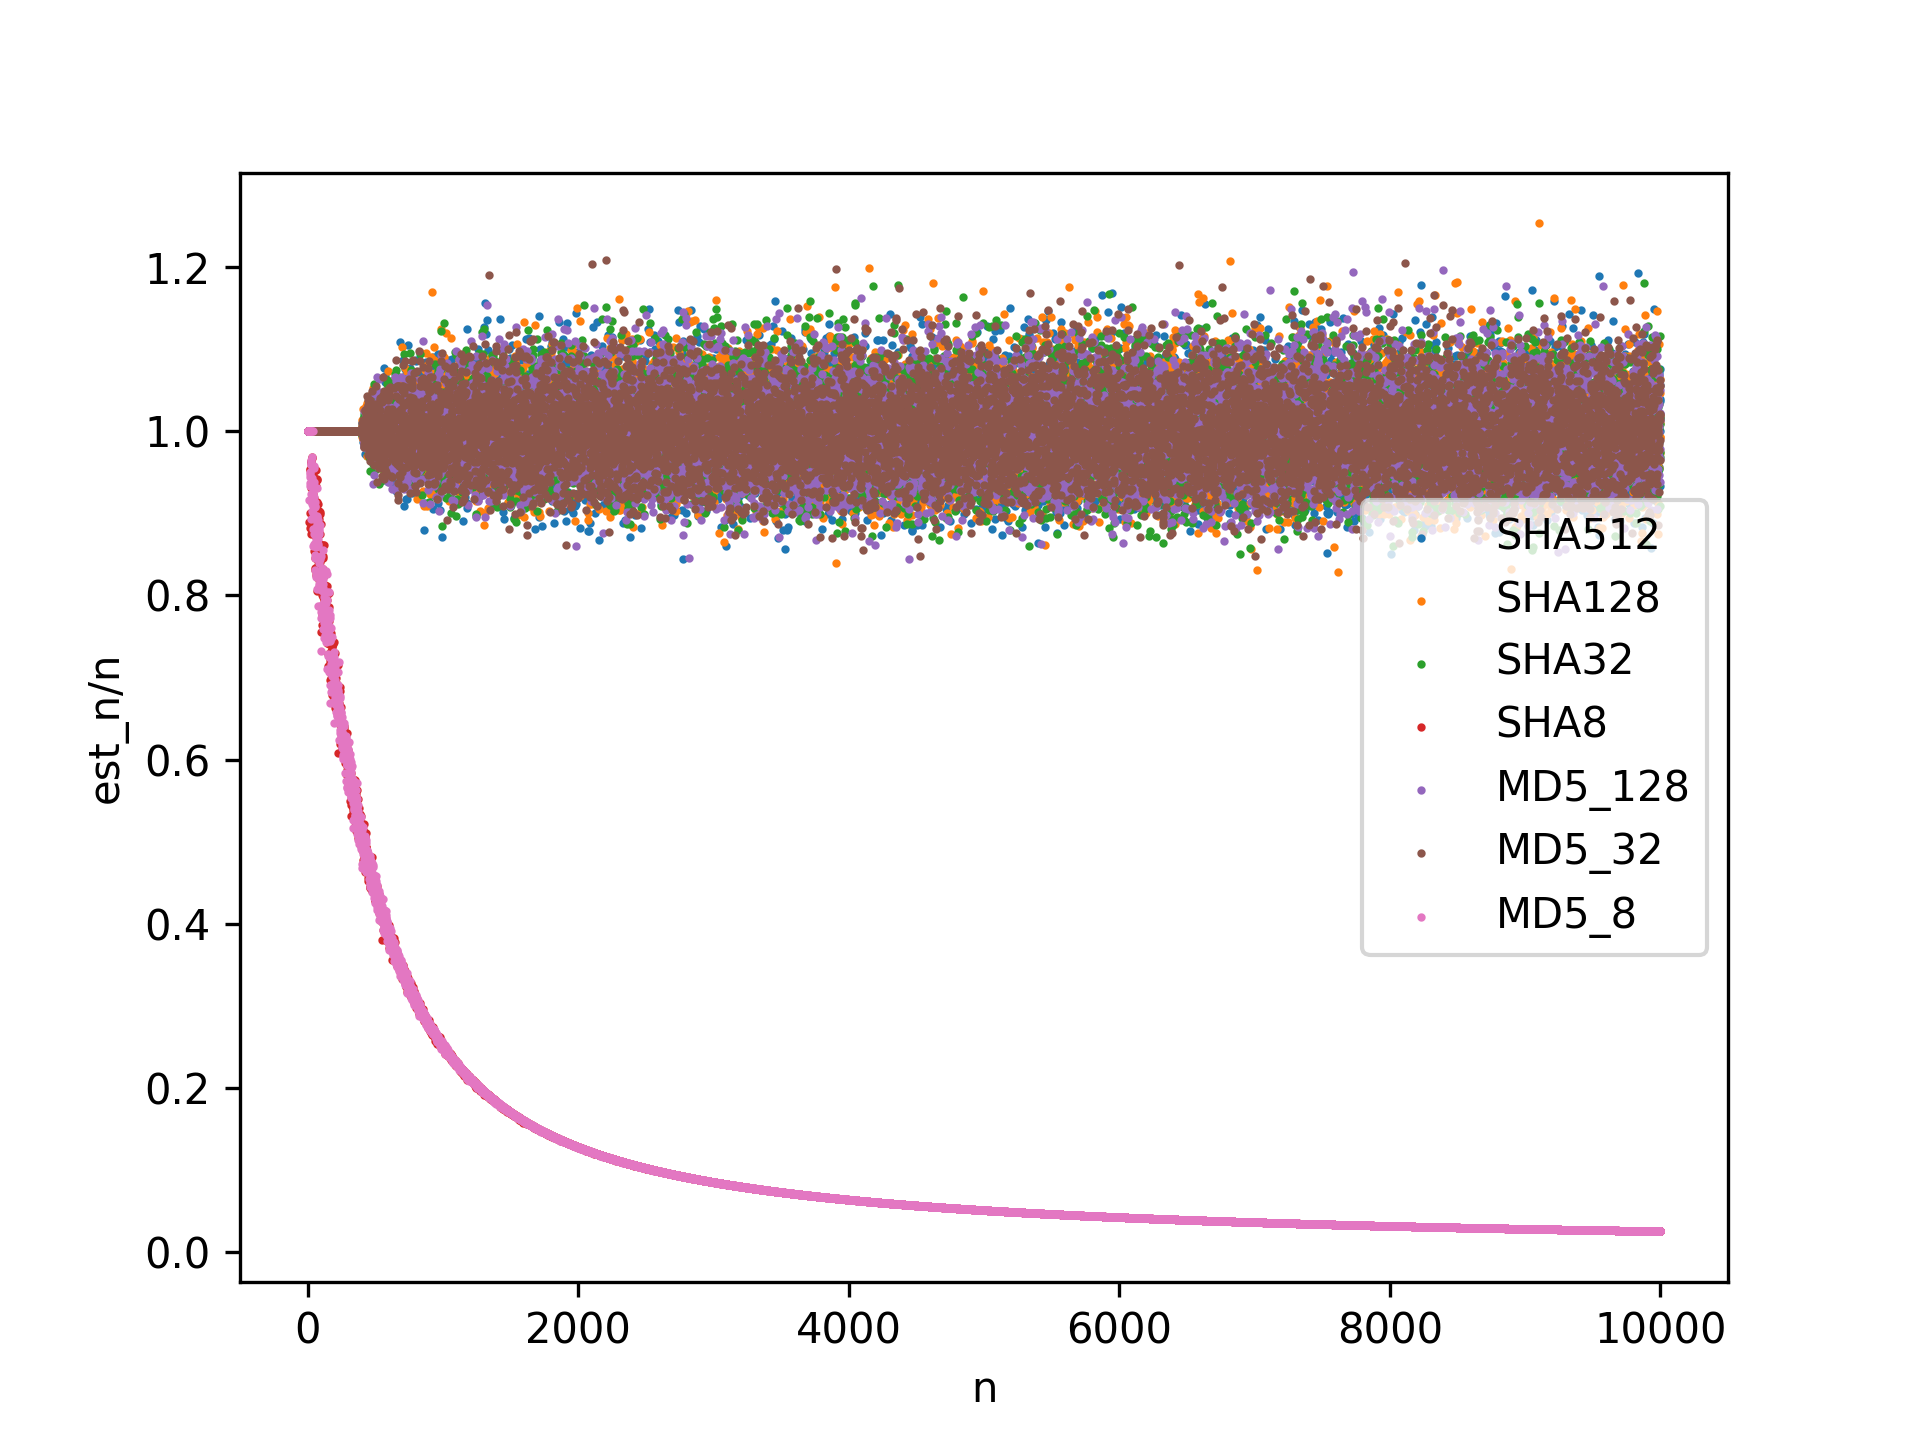
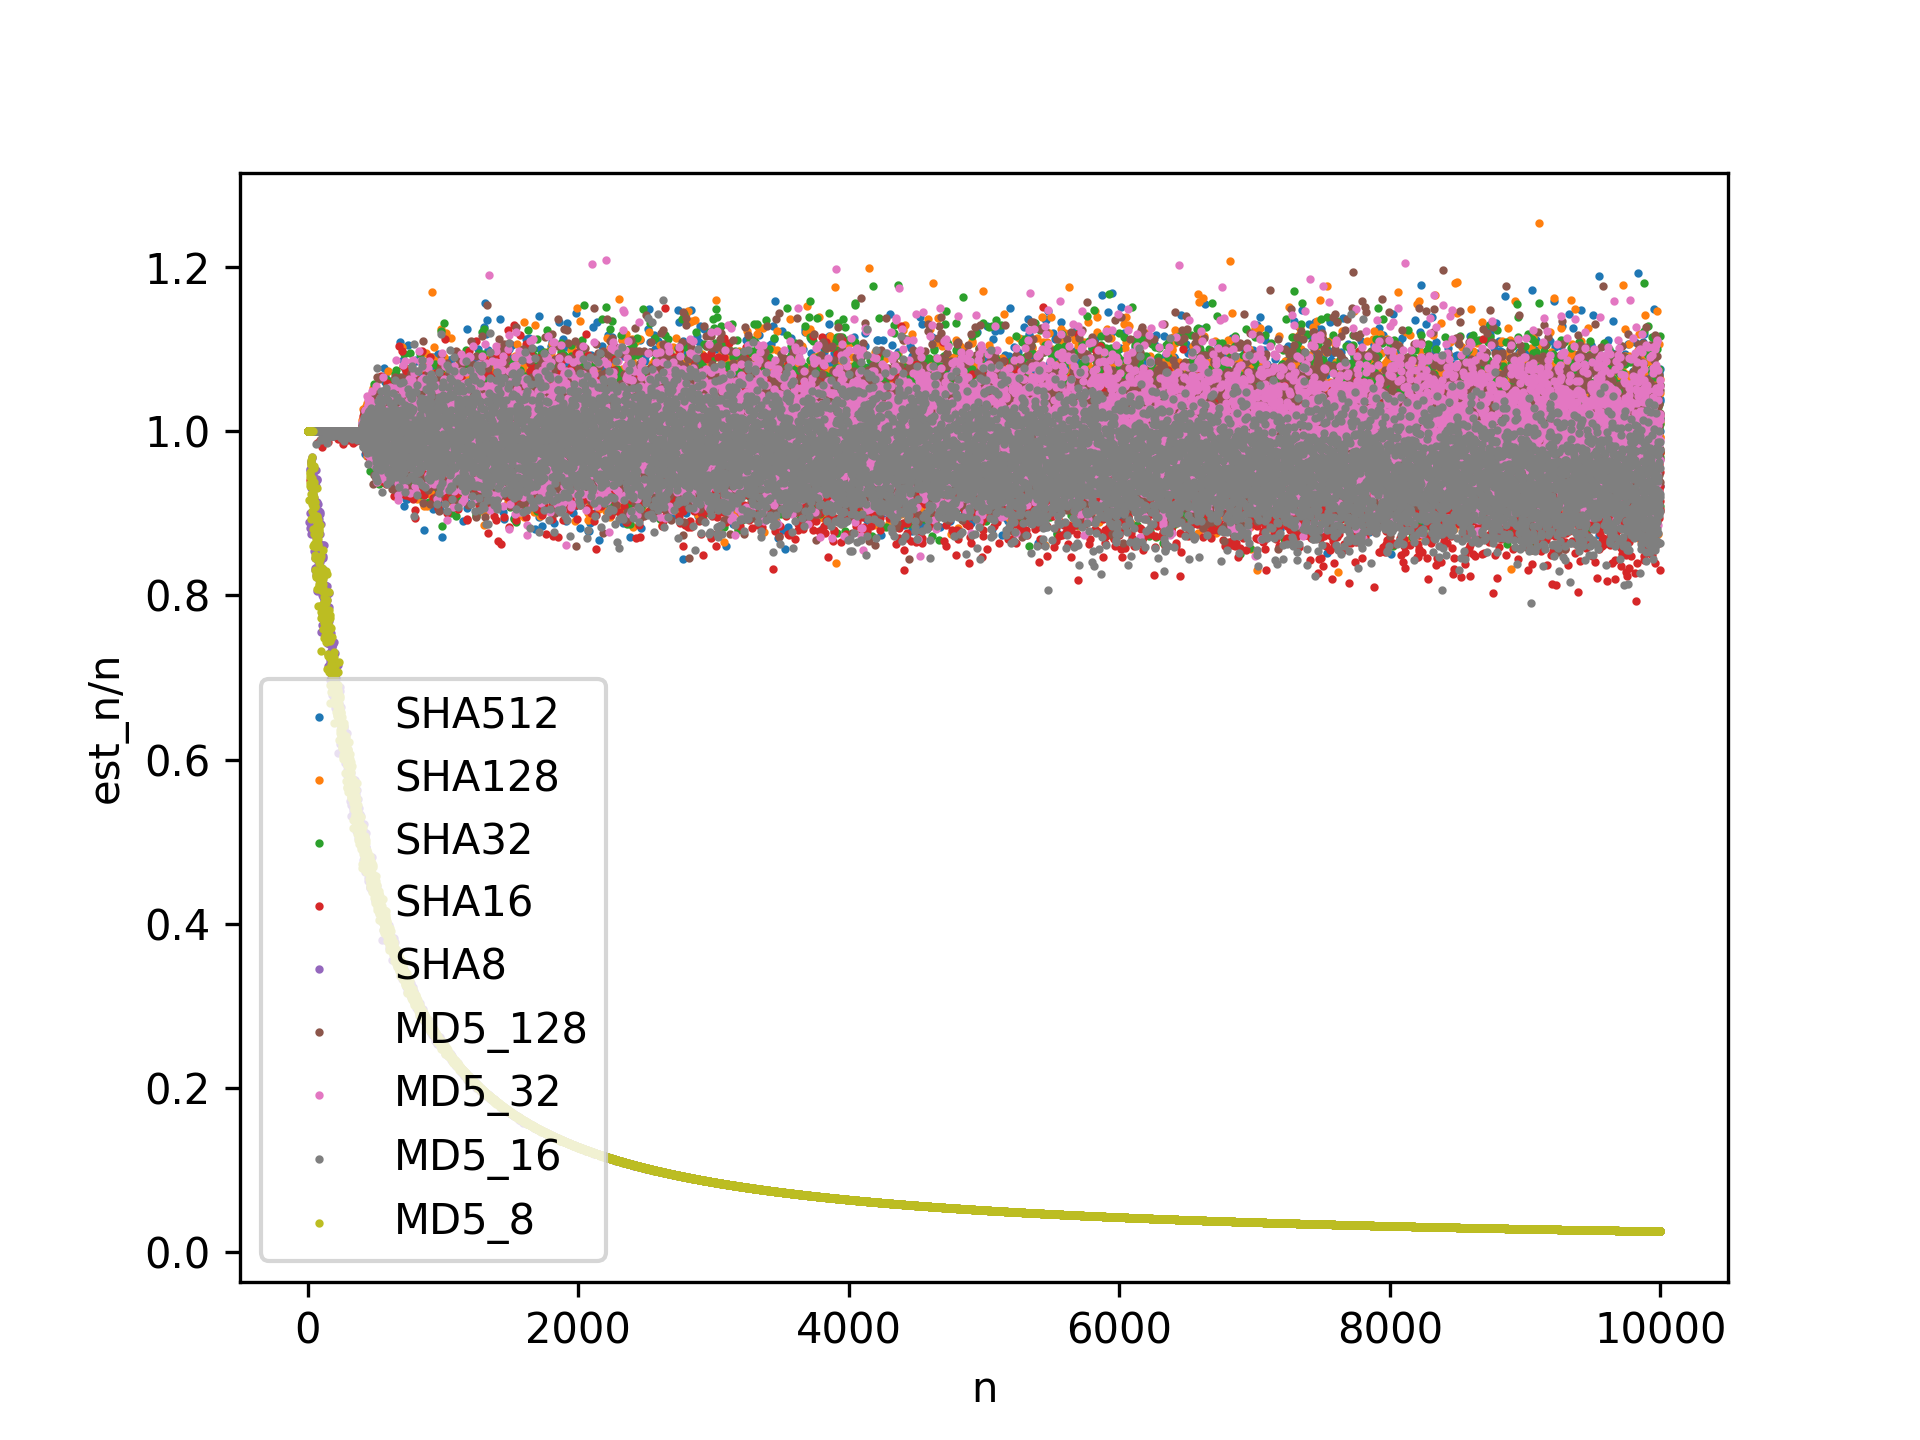
Task 7 finished, last updates to task 6

Changed region(s): [[0.125, 0.1875, 0.9062, 0.875], [0.5625, 0.8438, 0.875, 0.875]]

diff --git a/Laby/L2/Z7/z7.py b/Laby/L2/Z7/z7.py
@@ -1,15 +1,36 @@
 import csv
 import matplotlib.pyplot as plt
-import sys
+import math
 
 k = 400
 n = [i for i in range(1,10001)]
 ratios = []
 alpha = [0.05, 0.01, 0.005]
-delta = []
-delta_plus = []
-delta_minus = []
+delta_exp = []
+delta_cz = []
+delta_ch = []
 colours = ['olivedrab','peru','brown']
+names = ['delta_exp', 'delta_cz', 'delta_ch']
+
+def f(k,x):
+    return (math.e**(k*x))*(1-x)**k
+
+def calc_alpha(delta):
+    e1 = 1/(1-delta) - 1
+    e2 = 1 - 1/(1+delta)
+    return f(400,e2) + f(400,-e1)
+
+def find_delta(alpha):
+    l = 0.0
+    r = 0.2
+    delta = (l+r)/2
+    while abs(calc_alpha(delta) - alpha) > 0.0000001:
+        delta = (l+r)/2
+        if calc_alpha(delta) > alpha:
+            l = delta
+        else:
+            r = delta
+    return delta
 
 if __name__ == "__main__":
     with open('Laby/L2/Z5/k.csv') as csvfile:
@@ -21,16 +42,27 @@ if __name__ == "__main__":
     ratios_sorted.sort()
 
     for a in alpha:
-        delta.append(ratios_sorted[int((1-a)*10000)])
-    
-    for d in delta:
-        delta_plus.append([1 + d] * 10000)
-        delta_minus.append([1 - d] * 10000)
+        delta_exp.append(ratios_sorted[int((1-a)*10000)])
+        delta_cz.append(math.sqrt((1/k)/a))
+        delta_ch.append(find_delta(a))
 
     plt.scatter(n, ratios, s=1)
     for i in range(3):
-        plt.plot(n, delta_plus[i], color=colours[i])
-        plt.plot(n, delta_minus[i], color=colours[i])
+        plt.plot(n, [1 + delta_exp[i]] * 10000, color=colours[i])
+        plt.plot(n, [1 - delta_exp[i]] * 10000, color=colours[i])
     plt.xlabel("n")
     plt.ylabel("est_n/n")
     plt.savefig("Laby/L2/Z7/delta.png", dpi=300)
+    plt.close()
+
+    for i,a in enumerate(alpha):
+        plt.scatter(n, ratios, s=1)
+        for j,delta in enumerate([delta_exp, delta_cz, delta_ch]):
+            plt.plot(n, [1 + delta[i]] * 10000, color=colours[j], label=names[j])
+            plt.plot(n, [1 - delta[i]] * 10000, color=colours[j])
+        plt.xlabel("n")
+        plt.ylabel("est_n/n")
+        plt.title("alpha={}".format(a))
+        plt.legend()
+        plt.savefig("Laby/L2/Z7/delta_{}.png".format(a), dpi=300)
+        plt.close()

diff --git a/Laby/L2/Z6/z6_chart.py b/Laby/L2/Z6/z6_chart.py
@@ -16,7 +16,16 @@ if __name__ == "__main__":
         
     for hash in z6.hash_functions:
         plt.scatter(z6.n_vals, ratios[hash], label=hash.__name__, s=1)
-        plt.xlabel("n")
-        plt.ylabel("est_n/n")
+    plt.xlabel("n")
+    plt.ylabel("est_n/n")
     plt.legend()
     plt.savefig('Laby/L2/Z6/hash.png', dpi=300)
+    plt.close()
+
+    for hash in z6.small_functions:
+        plt.scatter(z6.n_vals, ratios[hash], label=hash.__name__, s=1)
+    plt.xlabel("n")
+    plt.ylabel("est_n/n")
+    plt.legend()
+    plt.savefig('Laby/L2/Z6/small_hash.png', dpi=300)
+    plt.close()

diff --git a/Laby/L2/Z6/z6.py b/Laby/L2/Z6/z6.py
@@ -37,6 +37,7 @@ def MD5_8(x):
     return (int.from_bytes(hashlib.md5(str(x).encode()).digest()) % MAX8)/MAX8
 
 hash_functions = [SHA512, SHA128, SHA32, SHA16, SHA8, MD5_128, MD5_32, MD5_16, MD5_8]
+small_functions = [SHA16, SHA8, MD5_16, MD5_8]
 k = 400
 n_vals = [i for i in range(1,10001)]
 
